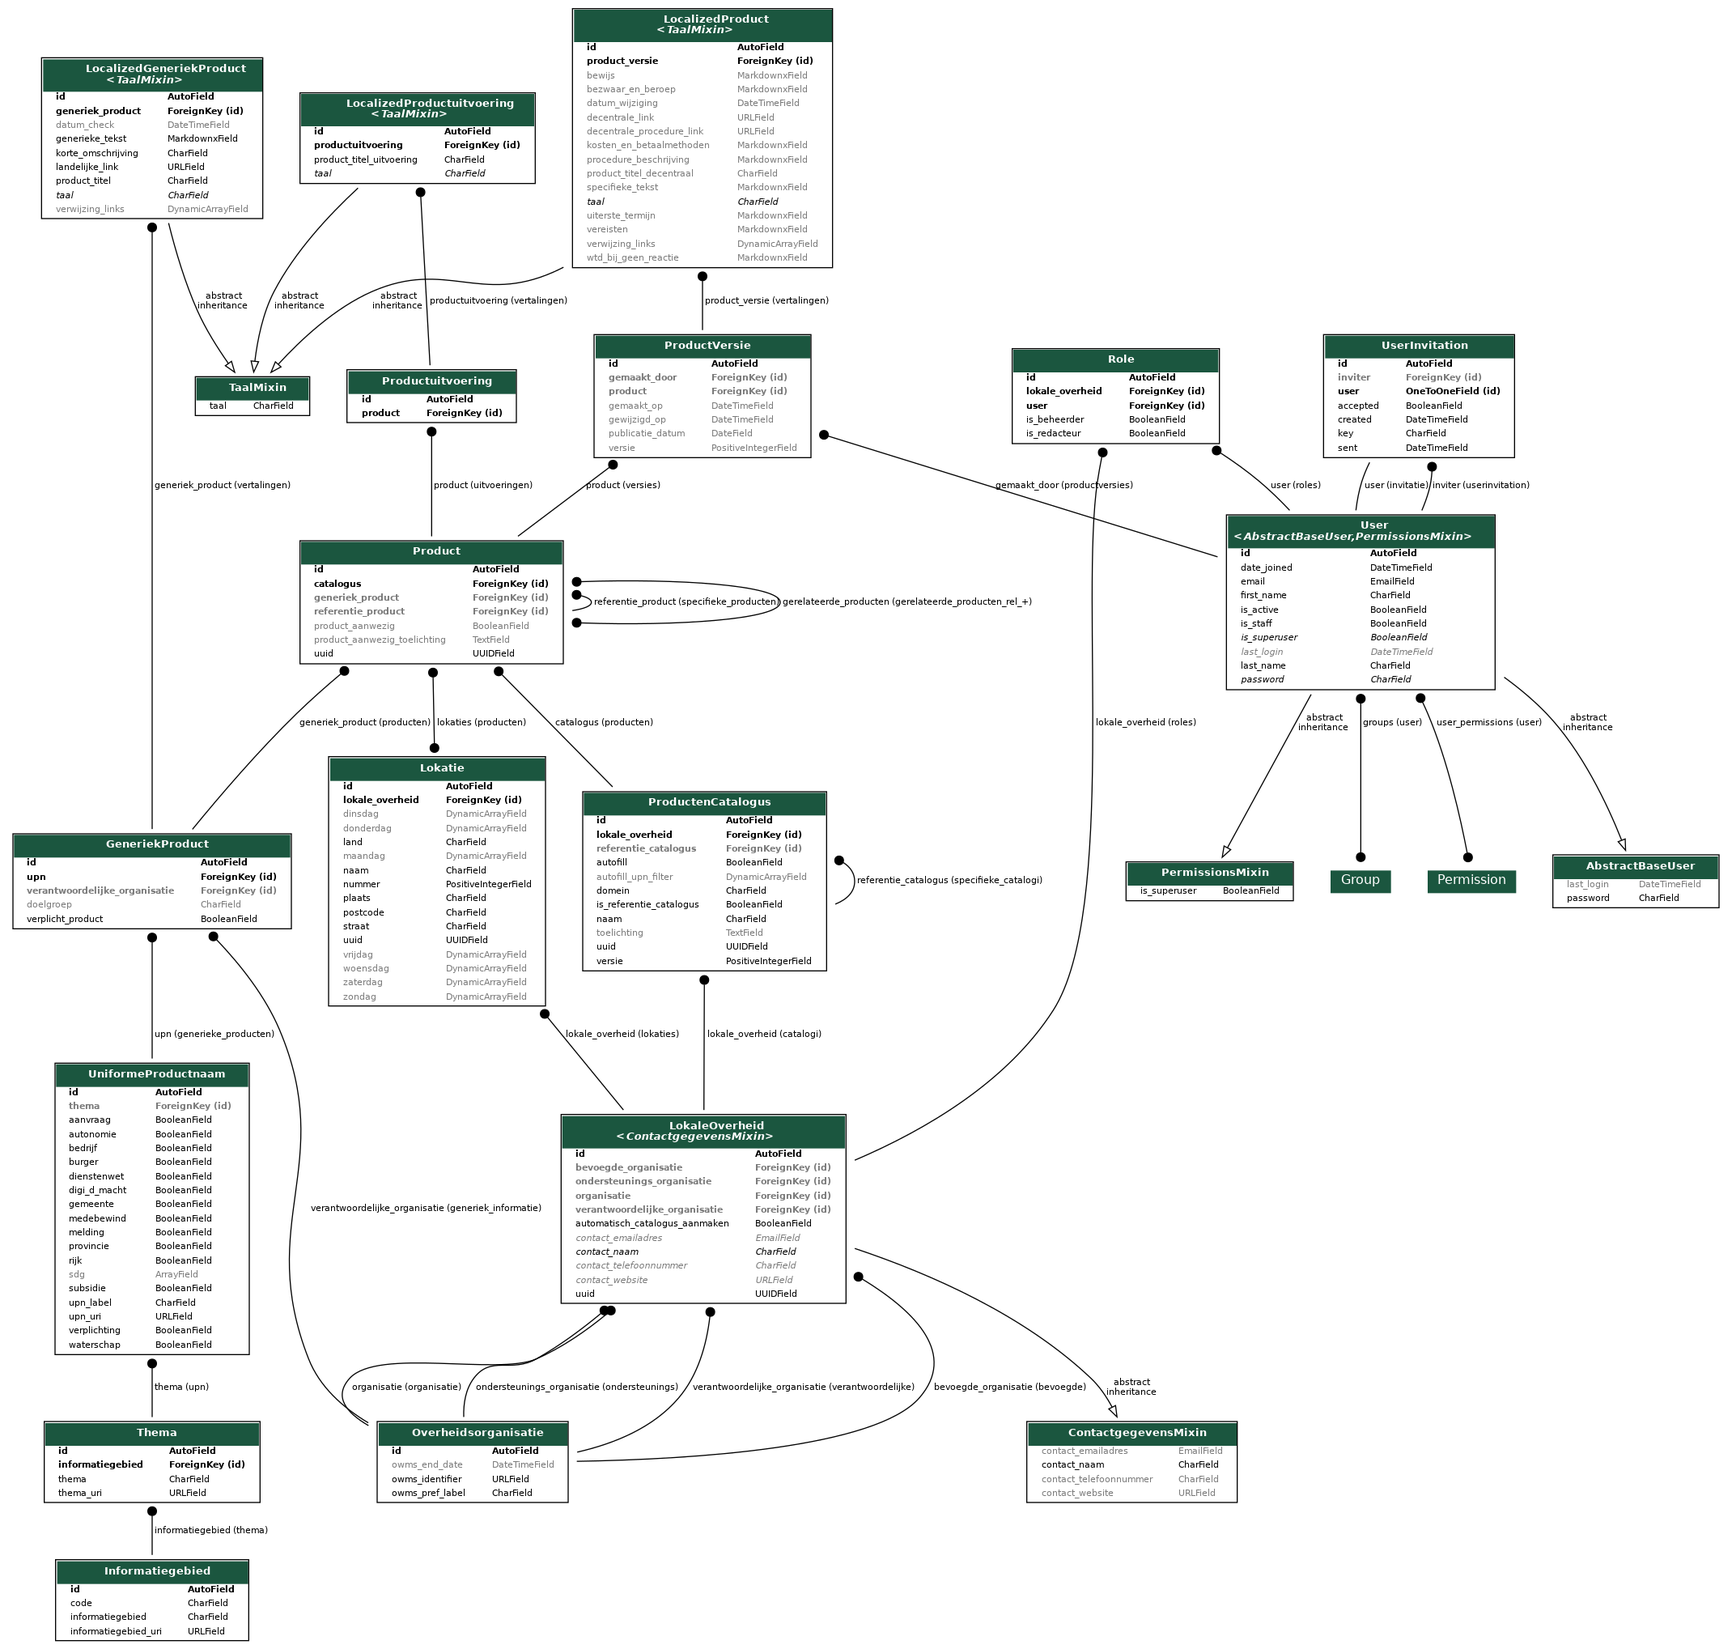
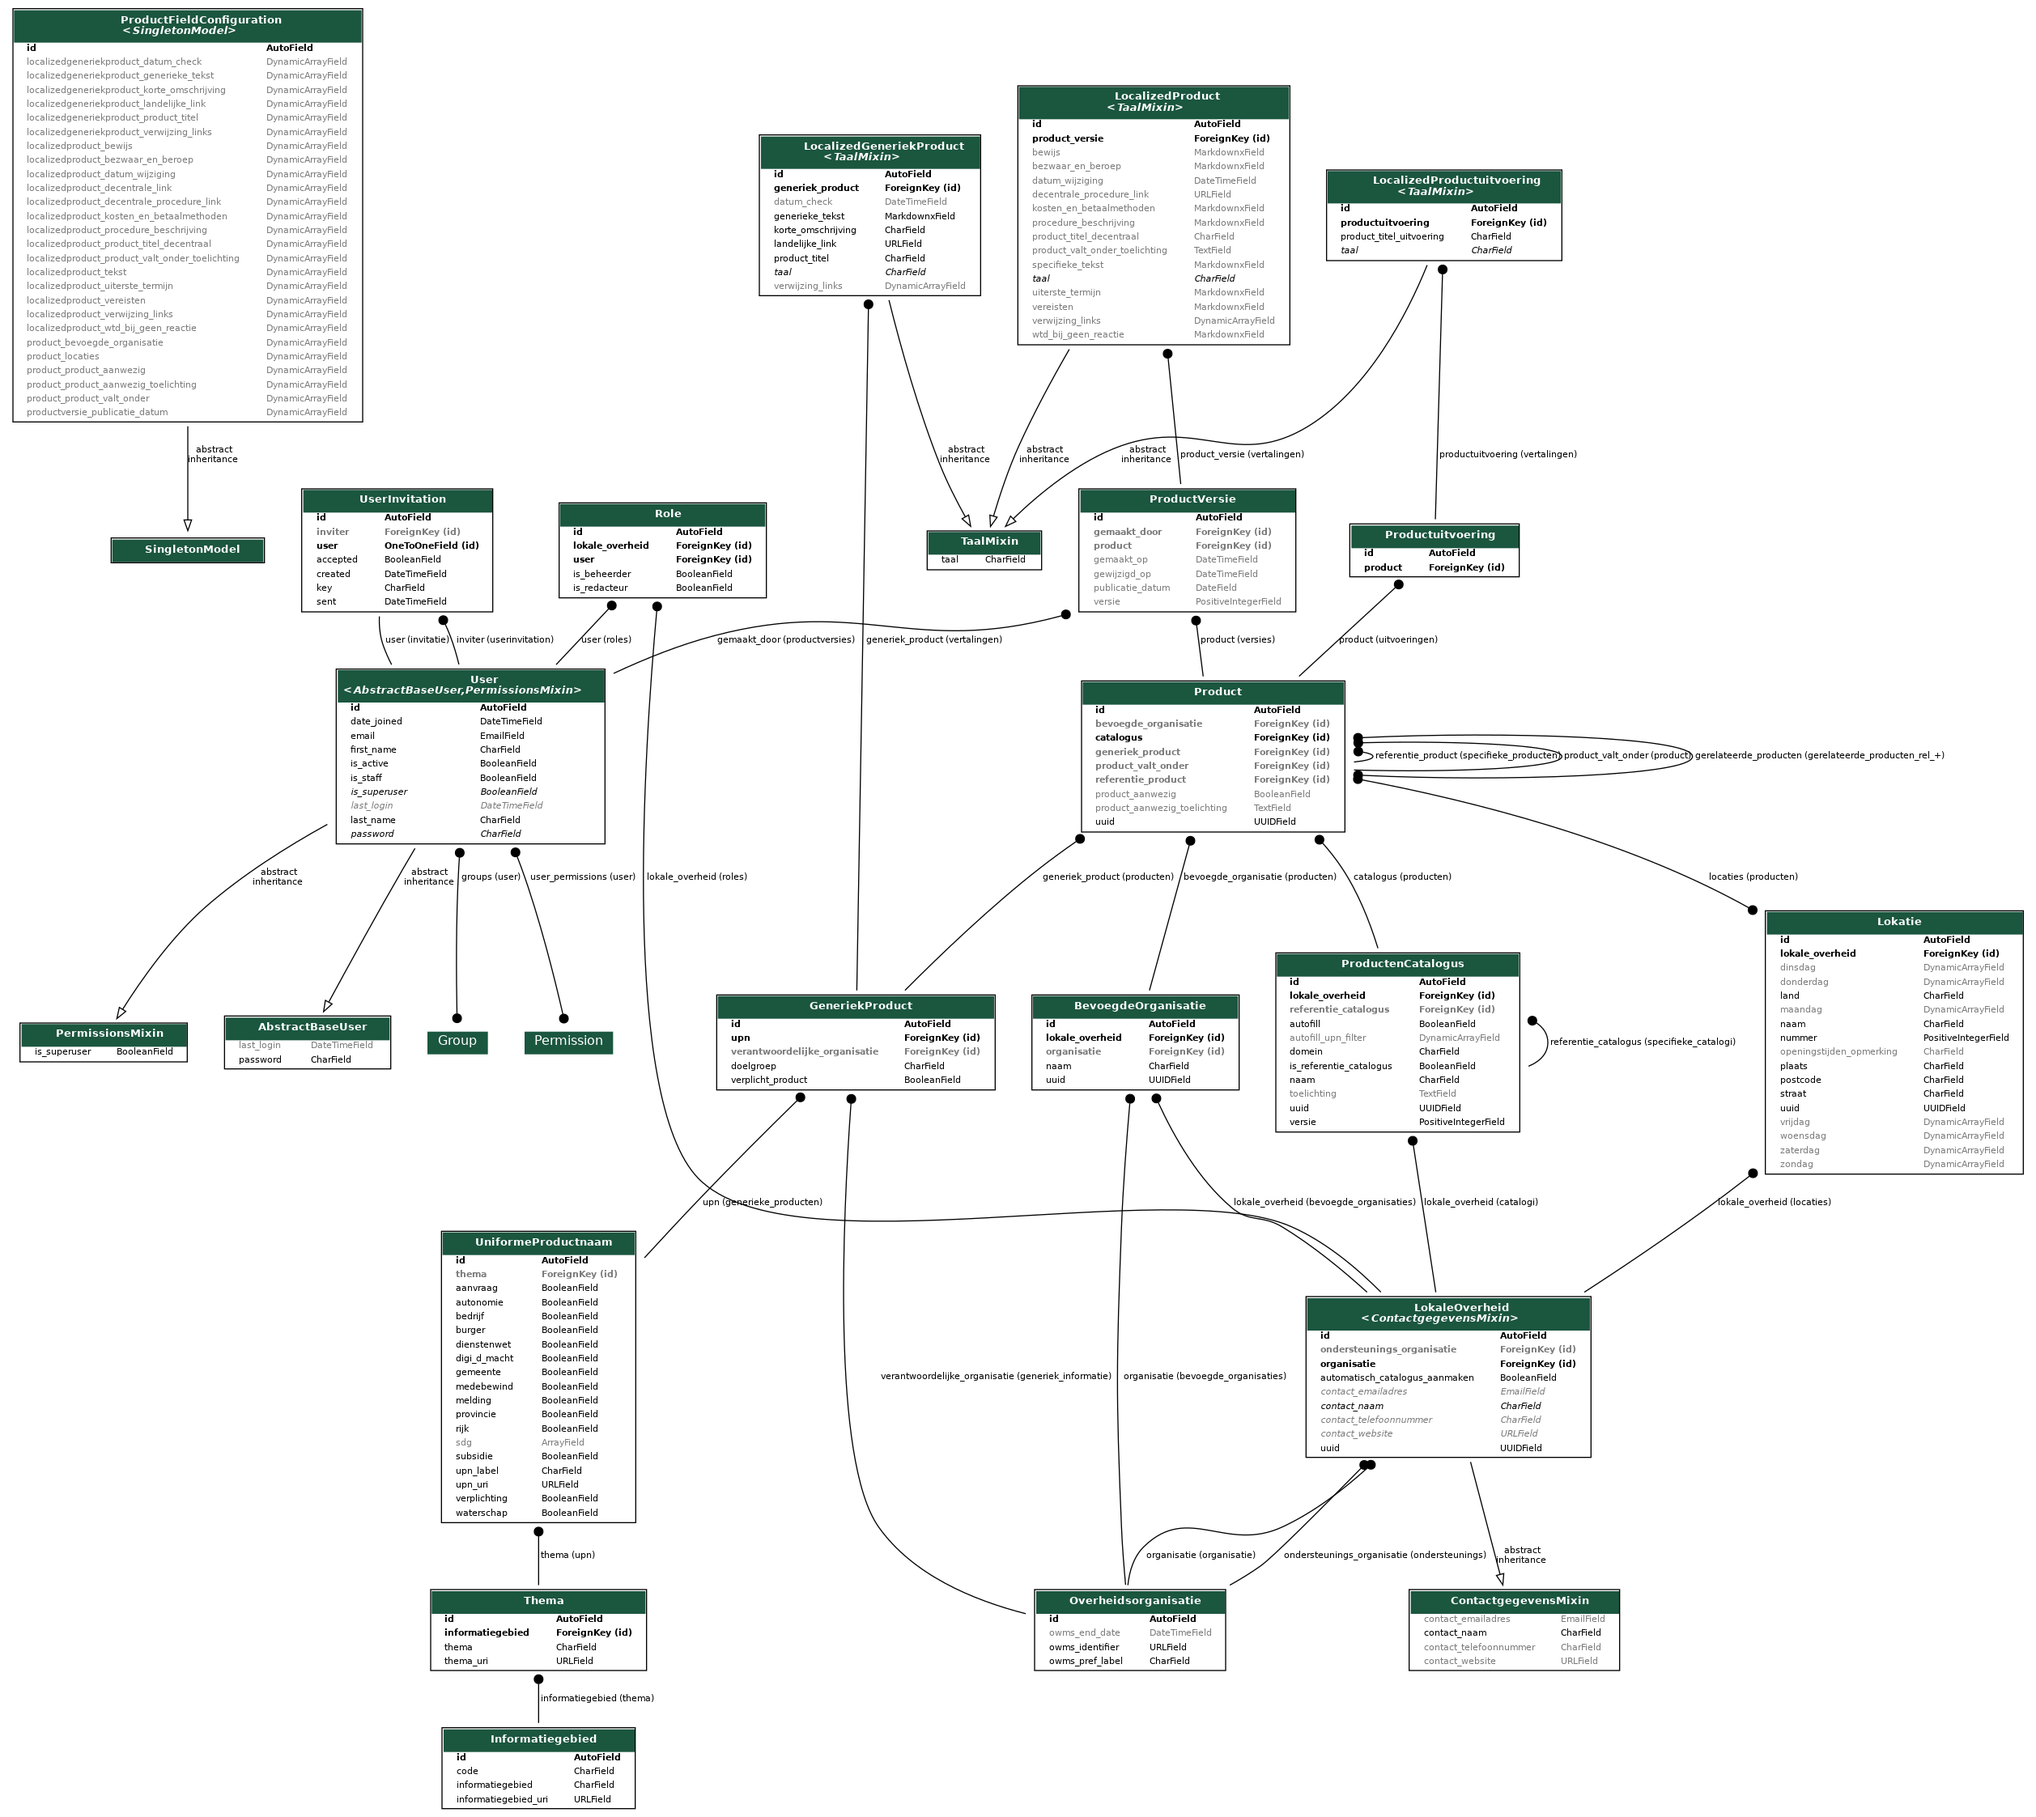
:floppy_disk: Apply model changes + data migrations — [#437]

diff --git a/src/sdg/organisaties/models.py b/src/sdg/organisaties/models.py
@@ -19,30 +19,21 @@ class LokaleOverheid(ContactgegevensMixin, models.Model):
     Municipality
     """
 
+    uuid = models.UUIDField(
+        _("UUID"),
+        unique=True,
+        default=uuid.uuid4,
+        editable=False,
+        help_text=_(
+            "De identificatie die binnen deze API gebruikt wordt voor de resource."
+        ),
+    )
     ondersteunings_organisatie = models.ForeignKey(
         "core.Overheidsorganisatie",
         on_delete=models.CASCADE,
         verbose_name=_("ondersteunings organisatie"),
         help_text=_("organisatie voor ondersteuning."),
         related_name="ondersteunings",
-        blank=True,
-        null=True,
-    )
-    verantwoordelijke_organisatie = models.ForeignKey(
-        "core.Overheidsorganisatie",
-        on_delete=models.CASCADE,
-        verbose_name=_("verantwoordelijke organisatie"),
-        help_text=_("Organisatie verantwoordelijk voor de decentrale informatie."),
-        related_name="verantwoordelijke",
-        blank=True,
-        null=True,
-    )
-    bevoegde_organisatie = models.ForeignKey(
-        "core.Overheidsorganisatie",
-        on_delete=models.CASCADE,
-        verbose_name=_("bevoegde organisatie"),
-        help_text=_("Bevoegd gezag verantwoordelijk voor de procedure."),
-        related_name="bevoegde",
         blank=True,
         null=True,
     )
@@ -54,15 +45,6 @@ class LokaleOverheid(ContactgegevensMixin, models.Model):
         related_name="organisatie",
     )
     users = models.ManyToManyField(User, through="accounts.Role")
-    uuid = models.UUIDField(
-        _("UUID"),
-        unique=True,
-        default=uuid.uuid4,
-        editable=False,
-        help_text=_(
-            "De identificatie die binnen deze API gebruikt wordt voor de resource."
-        ),
-    )
     automatisch_catalogus_aanmaken = models.BooleanField(
         _("Automatisch catalogus aanmaken"),
         default=True,
@@ -89,6 +71,47 @@ class LokaleOverheid(ContactgegevensMixin, models.Model):
 
     def get_absolute_url(self):
         return reverse("organisaties:catalogi:list", kwargs={"pk": self.pk})
+
+
+class BevoegdeOrganisatie(models.Model):
+    """
+    Competent organization
+
+    An organization has a unique name, it can (optionally) be associated with a single organization.
+    """
+
+    uuid = models.UUIDField(
+        _("UUID"),
+        unique=True,
+        default=uuid.uuid4,
+        editable=False,
+        help_text=_(
+            "De identificatie die binnen deze API gebruikt wordt voor de resource."
+        ),
+    )
+    naam = models.CharField(_("naam"), max_length=255)
+    lokale_overheid = models.ForeignKey(
+        LokaleOverheid,
+        on_delete=models.CASCADE,
+        verbose_name=_("lokale overheid"),
+        help_text=_("De lokale overheid waartoe deze bevoegde organisatie behoort."),
+        related_name="bevoegde_organisaties",
+    )
+    organisatie = models.ForeignKey(
+        "core.Overheidsorganisatie",
+        on_delete=models.SET_NULL,
+        verbose_name=_("organisatie"),
+        related_name="bevoegde_organisaties",
+        blank=True,
+        null=True,
+    )
+
+    class Meta:
+        verbose_name = _("bevoegde organisatie")
+        verbose_name_plural = _("bevoegde organisaties")
+
+    def __str__(self):
+        return self.naam
 
 
 class Lokatie(models.Model):

diff --git a/src/sdg/organisaties/migrations/0017_auto_20220324_1221.py b/src/sdg/organisaties/migrations/0017_auto_20220324_1221.py
@@ -1,0 +1,93 @@
+# Generated by Django 2.2.25 on 2022-03-24 12:21
+
+from django.db import migrations, models
+import django.db.models.deletion
+import uuid
+
+
+class Migration(migrations.Migration):
+
+    dependencies = [
+        ("core", "0020_productfieldconfiguration_product_bevoegde_organisatie"),
+        ("organisaties", "0016_auto_20220126_1722"),
+    ]
+
+    operations = [
+        migrations.RemoveField(
+            model_name="lokaleoverheid",
+            name="bevoegde_organisatie",
+        ),
+        migrations.RemoveField(
+            model_name="lokaleoverheid",
+            name="verantwoordelijke_organisatie",
+        ),
+        migrations.AlterField(
+            model_name="lokaleoverheid",
+            name="contact_telefoonnummer",
+            field=models.CharField(
+                blank=True,
+                help_text="Het telefoonnummer van de gemeente.",
+                max_length=20,
+                verbose_name="contact telefoonnummer",
+            ),
+        ),
+        migrations.AlterField(
+            model_name="lokaleoverheid",
+            name="contact_website",
+            field=models.URLField(
+                blank=True,
+                help_text="Website van de gemeente.",
+                verbose_name="contact website",
+            ),
+        ),
+        migrations.CreateModel(
+            name="BevoegdeOrganisatie",
+            fields=[
+                (
+                    "id",
+                    models.AutoField(
+                        auto_created=True,
+                        primary_key=True,
+                        serialize=False,
+                        verbose_name="ID",
+                    ),
+                ),
+                (
+                    "uuid",
+                    models.UUIDField(
+                        default=uuid.uuid4,
+                        editable=False,
+                        help_text="De identificatie die binnen deze API gebruikt wordt voor de resource.",
+                        unique=True,
+                        verbose_name="UUID",
+                    ),
+                ),
+                ("naam", models.CharField(max_length=255, verbose_name="naam")),
+                (
+                    "lokale_overheid",
+                    models.ForeignKey(
+                        help_text="De lokale overheid waartoe deze bevoegde organisatie behoort.",
+                        on_delete=django.db.models.deletion.CASCADE,
+                        related_name="bevoegde_organisaties",
+                        to="organisaties.LokaleOverheid",
+                        verbose_name="lokale overheid",
+                    ),
+                ),
+                (
+                    "organisatie",
+                    models.ForeignKey(
+                        blank=True,
+                        null=True,
+                        on_delete=django.db.models.deletion.SET_NULL,
+                        related_name="bevoegde_organisaties",
+                        to="core.Overheidsorganisatie",
+                        verbose_name="organisatie",
+                    ),
+                ),
+            ],
+            options={
+                "verbose_name": "bevoegde organisatie",
+                "verbose_name_plural": "bevoegde organisaties",
+            },
+        ),
+    ]

diff --git a/src/sdg/producten/models/product.py b/src/sdg/producten/models/product.py
@@ -118,6 +118,15 @@ class Product(ProductFieldMixin, models.Model):
         SCHEDULED = ChoiceItem("scheduled", label=_("Gepland"))
         CONCEPT = ChoiceItem("concept", label=_("Concept"))
 
+    uuid = models.UUIDField(
+        _("UUID"),
+        unique=True,
+        default=uuid.uuid4,
+        editable=False,
+        help_text=_(
+            "De identificatie die binnen deze API gebruikt wordt voor de resource."
+        ),
+    )
     generiek_product = models.ForeignKey(
         "producten.GeneriekProduct",
         related_name="producten",
@@ -182,14 +191,14 @@ class Product(ProductFieldMixin, models.Model):
         ),
         blank=True,
     )
-    uuid = models.UUIDField(
-        _("UUID"),
-        unique=True,
-        default=uuid.uuid4,
-        editable=False,
-        help_text=_(
-            "De identificatie die binnen deze API gebruikt wordt voor de resource."
-        ),
+    bevoegde_organisatie = models.ForeignKey(
+        "organisaties.BevoegdeOrganisatie",
+        on_delete=models.SET_NULL,
+        verbose_name=_("bevoegde organisatie"),
+        related_name="producten",
+        help_text=_("De bevoegde organisatie van de producten."),
+        blank=True,
+        null=True,
     )
 
     objects = ProductQuerySet.as_manager()

diff --git a/src/sdg/core/migrations/0021_data_migration_add_lokaleoverheid_bevoegde_organisaties.py b/src/sdg/core/migrations/0021_data_migration_add_lokaleoverheid_bevoegde_organisaties.py
@@ -1,0 +1,32 @@
+# Generated by Django 2.2.25 on 2022-03-23 11:59
+
+from django.db import migrations
+
+
+def add_bevoegde_organisaties(apps, schema_editor):
+    BevoegdeOrganisatie = apps.get_model("organisaties", "BevoegdeOrganisatie")
+    LokaleOverheid = apps.get_model("organisaties", "LokaleOverheid")
+
+    # Add initial bevoegde organisatie to municipality
+    bevoegde_organisaties = []
+    for lokale_overheid in LokaleOverheid.objects.all().select_related("organisatie"):
+        bevoegde_organisaties.append(
+            BevoegdeOrganisatie(
+                naam=lokale_overheid.organisatie.owms_pref_label,
+                lokale_overheid=lokale_overheid,
+                organisatie=lokale_overheid.organisatie,
+            )
+        )
+    BevoegdeOrganisatie.objects.bulk_create(bevoegde_organisaties)
+
+
+class Migration(migrations.Migration):
+
+    dependencies = [
+        ("core", "0020_productfieldconfiguration_product_bevoegde_organisatie"),
+        ("organisaties", "0017_auto_20220324_1221"),
+    ]
+
+    operations = [
+        migrations.RunPython(add_bevoegde_organisaties, migrations.RunPython.noop),
+    ]

diff --git a/src/sdg/producten/migrations/0023_product_bevoegde_organisatie.py b/src/sdg/producten/migrations/0023_product_bevoegde_organisatie.py
@@ -1,0 +1,28 @@
+# Generated by Django 2.2.25 on 2022-03-24 12:21
+
+from django.db import migrations, models
+import django.db.models.deletion
+
+
+class Migration(migrations.Migration):
+
+    dependencies = [
+        ("organisaties", "0017_auto_20220324_1221"),
+        ("producten", "0022_merge_20220317_1718"),
+    ]
+
+    operations = [
+        migrations.AddField(
+            model_name="product",
+            name="bevoegde_organisatie",
+            field=models.ForeignKey(
+                blank=True,
+                help_text="De bevoegde organisatie van de producten.",
+                null=True,
+                on_delete=django.db.models.deletion.SET_NULL,
+                related_name="producten",
+                to="organisaties.BevoegdeOrganisatie",
+                verbose_name="bevoegde organisatie",
+            ),
+        ),
+    ]

diff --git a/src/sdg/core/migrations/0020_productfieldconfiguration_product_bevoegde_organisatie.py b/src/sdg/core/migrations/0020_productfieldconfiguration_product_bevoegde_organisatie.py
@@ -1,0 +1,28 @@
+# Generated by Django 2.2.25 on 2022-03-24 12:21
+
+import django.contrib.postgres.fields
+from django.db import migrations, models
+import sdg.core.db.fields
+
+
+class Migration(migrations.Migration):
+
+    dependencies = [
+        ("core", "0019_auto_20220304_1802"),
+    ]
+
+    operations = [
+        migrations.AddField(
+            model_name="productfieldconfiguration",
+            name="product_bevoegde_organisatie",
+            field=sdg.core.db.fields.DynamicArrayField(
+                base_field=django.contrib.postgres.fields.ArrayField(
+                    base_field=models.CharField(max_length=512), size=None
+                ),
+                blank=True,
+                default=list,
+                size=None,
+                verbose_name="Algemene bevoegde organisatie",
+            ),
+        ),
+    ]

diff --git a/src/sdg/core/models/catalogus.py b/src/sdg/core/models/catalogus.py
@@ -76,15 +76,6 @@ class ProductenCatalogus(models.Model):
 
     objects = ProductenCatalogusQuerySet.as_manager()
 
-    @property
-    def verantwoordelijke_organisatie(self):
-        """
-        The department that is responsible (co-management products), e.g. BZK for passport; "municipalities" for
-        autonomous products (e.g. terrace permit)
-        """
-
-        return self.lokale_overheid.verantwoordelijke_organisatie
-
     def has_reference_catalog(self) -> bool:
         """Returns whether this catalog has a reference catalog."""
         return bool(self.referentie_catalogus)

diff --git a/src/sdg/core/admin/config.py b/src/sdg/core/admin/config.py
@@ -15,6 +15,7 @@ class ProductFieldConfigurationAdmin(SingletonModelAdmin):
                 "fields": [
                     "product_product_aanwezig",
                     "product_product_aanwezig_toelichting",
+                    "product_product_bevoegde_organisatie",
                     "product_locaties",
                     "productversie_publicatie_datum",
                     "product_product_valt_onder",

diff --git a/src/sdg/core/models/config.py b/src/sdg/core/models/config.py
@@ -35,6 +35,9 @@ class ProductFieldConfiguration(SingletonModel):
     product_product_valt_onder = LabeledTooltipField(
         verbose_name=_("Algemene valt onder"),
     )
+    product_bevoegde_organisatie = LabeledTooltipField(
+        verbose_name=_("Algemene bevoegde organisatie"),
+    )
     product_locaties = LabeledTooltipField(
         verbose_name=_("Algemene locaties"),
     )
